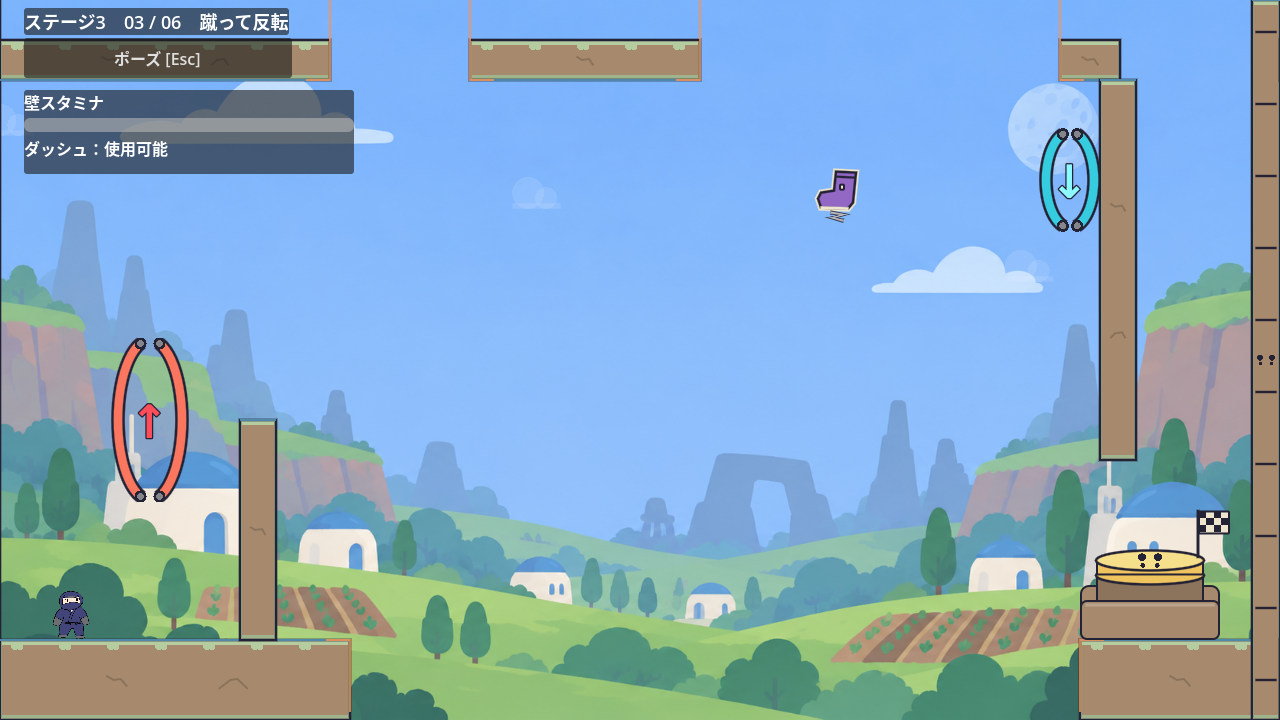
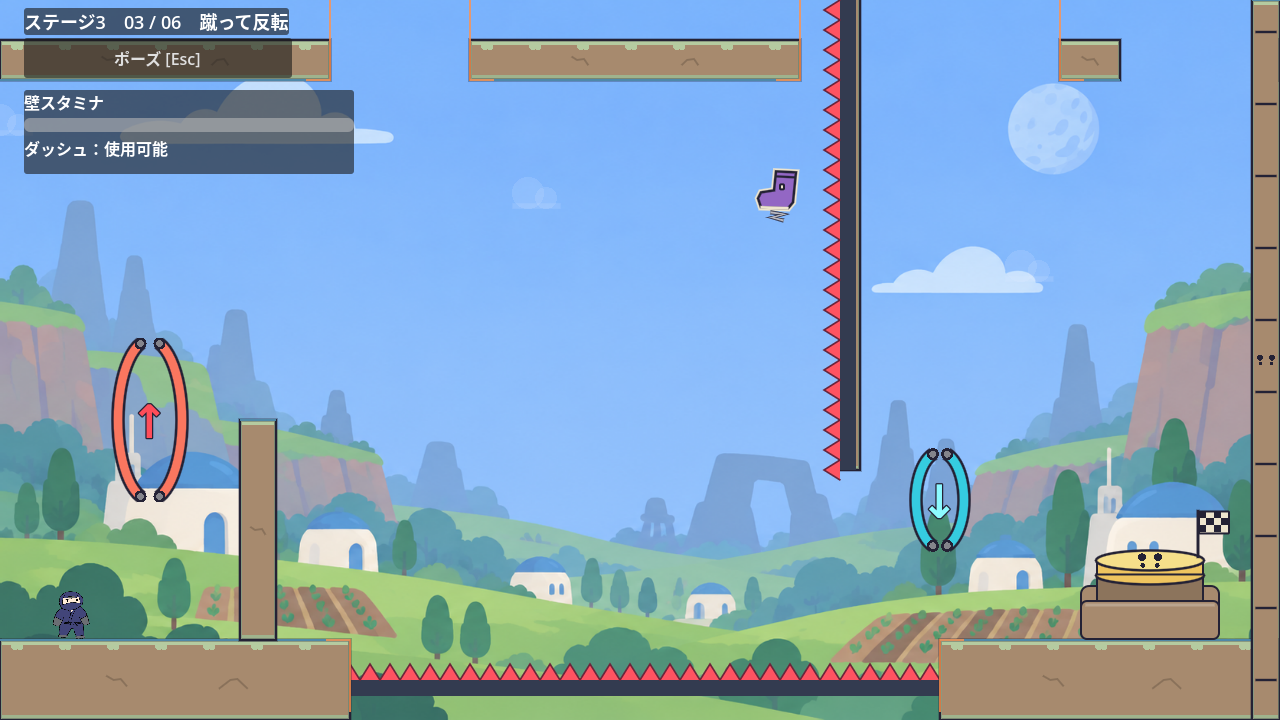
📝 重力3室目の攻略と安全な帰路の描画を記録する

Changed region(s): [[0.5312, 0.0, 0.7812, 0.7639], [0.25, 0.8861, 0.875, 1.0], [0.8125, 0.0917, 0.9062, 0.6417]]

diff --git a/README.md b/README.md
@@ -47,17 +47,17 @@ F5で起動すると、宇宙背景の中央に「忍者ぶっとびくん Galax
 
 ## ステージ3：壁キックと重力
 
-壁キックと重力反転を使う6部屋の本編ステージです。1部屋目はSpringから張り出しを交互の壁キックで越え、重力反転・天井のSpringへ、2部屋目は天井の穴を跳び、反転中に下側へ壁を渡って休める足場と反発板へつなぎます。3〜6部屋目は後半にも天井の穴があり、空中ジャンプのクリスタル、縦風と移動ゲート、短い足場のSpring、向かい風と横移動ゲートを、それぞれ違う経路で使います。ダッシュと壁登りは最初から使え、全6部屋をダッシュなしでも攻略できます。
+壁キックと重力反転を使う6部屋の本編ステージです。1部屋目はSpringから張り出しを交互の壁キックで越え、重力反転・天井のSpringへ、2部屋目は天井の穴を跳び、反転中に下側へ壁を渡って休める足場と反発板へつなぎます。3〜6部屋目は空中ジャンプのクリスタル、縦風と移動ゲート、短い足場のSpring、向かい風と横移動ゲートを、それぞれ違う経路で使います。ダッシュと壁登りは最初から使えます。3部屋目は空中ジャンプと下ダッシュで吊り下がるトゲ壁の下を回り、他5部屋にはダッシュなしの攻略経路があります。
 
 各部屋は1280×720の固定カメラで、到着台を押すと出口が開きます。2〜6部屋目には床の落とし穴もあり、クリア後は床の穴を埋める足場が現れます。穴の縁はオレンジ色で示します。落下やR / Startでその部屋の入口へ戻り、重力・ダッシュ・スタミナと移動ゲートをリセットします。開いた出口は、そのプレイ中は開いたままです。6部屋目のクリア後も前の部屋へ戻って練習できます。
 
 経路の矢印と説明文は初期状態で非表示です。「ポーズ [Esc]」またはEsc／Back・Selectで開く共通メニューから、説明文と経路の矢印を表示・非表示にできます。切り替え後もポーズを維持し、設定は部屋移動ややり直しでも保ちます。選択画面から入り直すと説明文と経路の矢印は非表示に戻ります。壁スタミナはチュートリアルと同じゲージで表示します。部屋番号・タイトル・ポーズの入口と、ゲージ・ダッシュ・空中ジャンプの表示は、通常重力では画面上側、反転中は下側へ同時に移ります。開いたメニュー自体は常に画面中央に表示します。
 
-3部屋目の床の穴は730px幅に広げ、壁の上からのジャンプとダッシュでも届かないようにしました。4部屋目は既存の重力ゲートを広げ、床の壁を登って重力反転を避ける抜け道を防いでいます。
+3部屋目では幅330pxの天井で休み、真下の靴を通常ジャンプで取って追加ジャンプと下ダッシュをつなぎます。谷底のトゲは深く落ちてからのダッシュによる代用を防ぎ、クリア後は帰りの橋に覆われます。4部屋目は既存の重力ゲートを広げ、床の壁を登って重力反転を避ける抜け道を防いでいます。
 
 配置は `scenes/stage_3.tscn`、進行は `scripts/stage_3.gd` で調整します。合意した仕様と6部屋の課題は [第３ステージの仕様書](docs/stage-3.md) に記録しています。
 
-![空中ジャンプで後半の大きな穴を越える3部屋目](docs/screenshots/stage-3/room_3.png)
+![空中ジャンプと下ダッシュでトゲ壁の下を回る3部屋目](docs/screenshots/stage-3/room_3.png)
 
 ## ステージ4：星渡りの回廊
 
@@ -271,6 +271,7 @@ Godot_v4.7.2-stable_win64_console.exe --headless --fixed-fps 60 --path . --scrip
 Godot_v4.7.2-stable_win64_console.exe --headless --fixed-fps 60 --path . --script res://tests/stage_2_test.gd
 Godot_v4.7.2-stable_win64_console.exe --headless --fixed-fps 60 --path . --script res://tests/stage_3_test.gd
 Godot_v4.7.2-stable_win64_console.exe --headless --fixed-fps 60 --path . --script res://tests/gravity_wall_jump_route_test.gd
+Godot_v4.7.2-stable_win64_console.exe --headless --fixed-fps 60 --path . --script res://tests/gravity_room_three_jump_test.gd
 Godot_v4.7.2-stable_win64_console.exe --headless --fixed-fps 60 --path . --script res://tests/gravity_room_two_terrain_test.gd
 Godot_v4.7.2-stable_win64_console.exe --headless --fixed-fps 60 --path . --script res://tests/stage_4_test.gd
 Godot_v4.7.2-stable_win64_console.exe --headless --fixed-fps 60 --path . --script res://tests/corridor_companion_route_test.gd
@@ -311,7 +312,7 @@ Godot_v4.7.2-stable_win64_console.exe --headless --fixed-fps 60 --path . --scrip
 
 `STAGE_5_TEST_OK` は、位置変更や能力の強制補充を使わずに全12部屋・43個の反射を実入力で攻略し、風・ダッシュ・最後の到着台を確認します。部屋移動、落下・Rによる復帰、共通ポーズとヒント、再選択時の初期化も検証します。
 
-`STAGE_3_TEST_OK` は、ダッシュなしの実入力で全6部屋を攻略し、壁キック・通常重力と反転中の連携、移動ゲート、到着台、部屋移動と逆戻り、落下・やり直し、クリア後の自由練習、再選択時の進捗初期化を確認します。
+`STAGE_3_TEST_OK` は、第3室だけ空中ジャンプと下ダッシュを使い、他5室はダッシュなしの実入力で攻略し、壁キック・通常重力と反転中の連携、移動ゲート、到着台、部屋移動と逆戻り、落下・やり直し、クリア後の自由練習、再選択時の進捗初期化を確認します。
 
 `CHARACTER_SPRITES_TEST_OK` は、元画像の使い分け、少数フレームの歩行・壁登り・運搬、両重力の左右向きと壁キック、大きなアイテムの縦横比・表示幅・手との接点、追加ジャンプ表示の位置を確認します。
 
